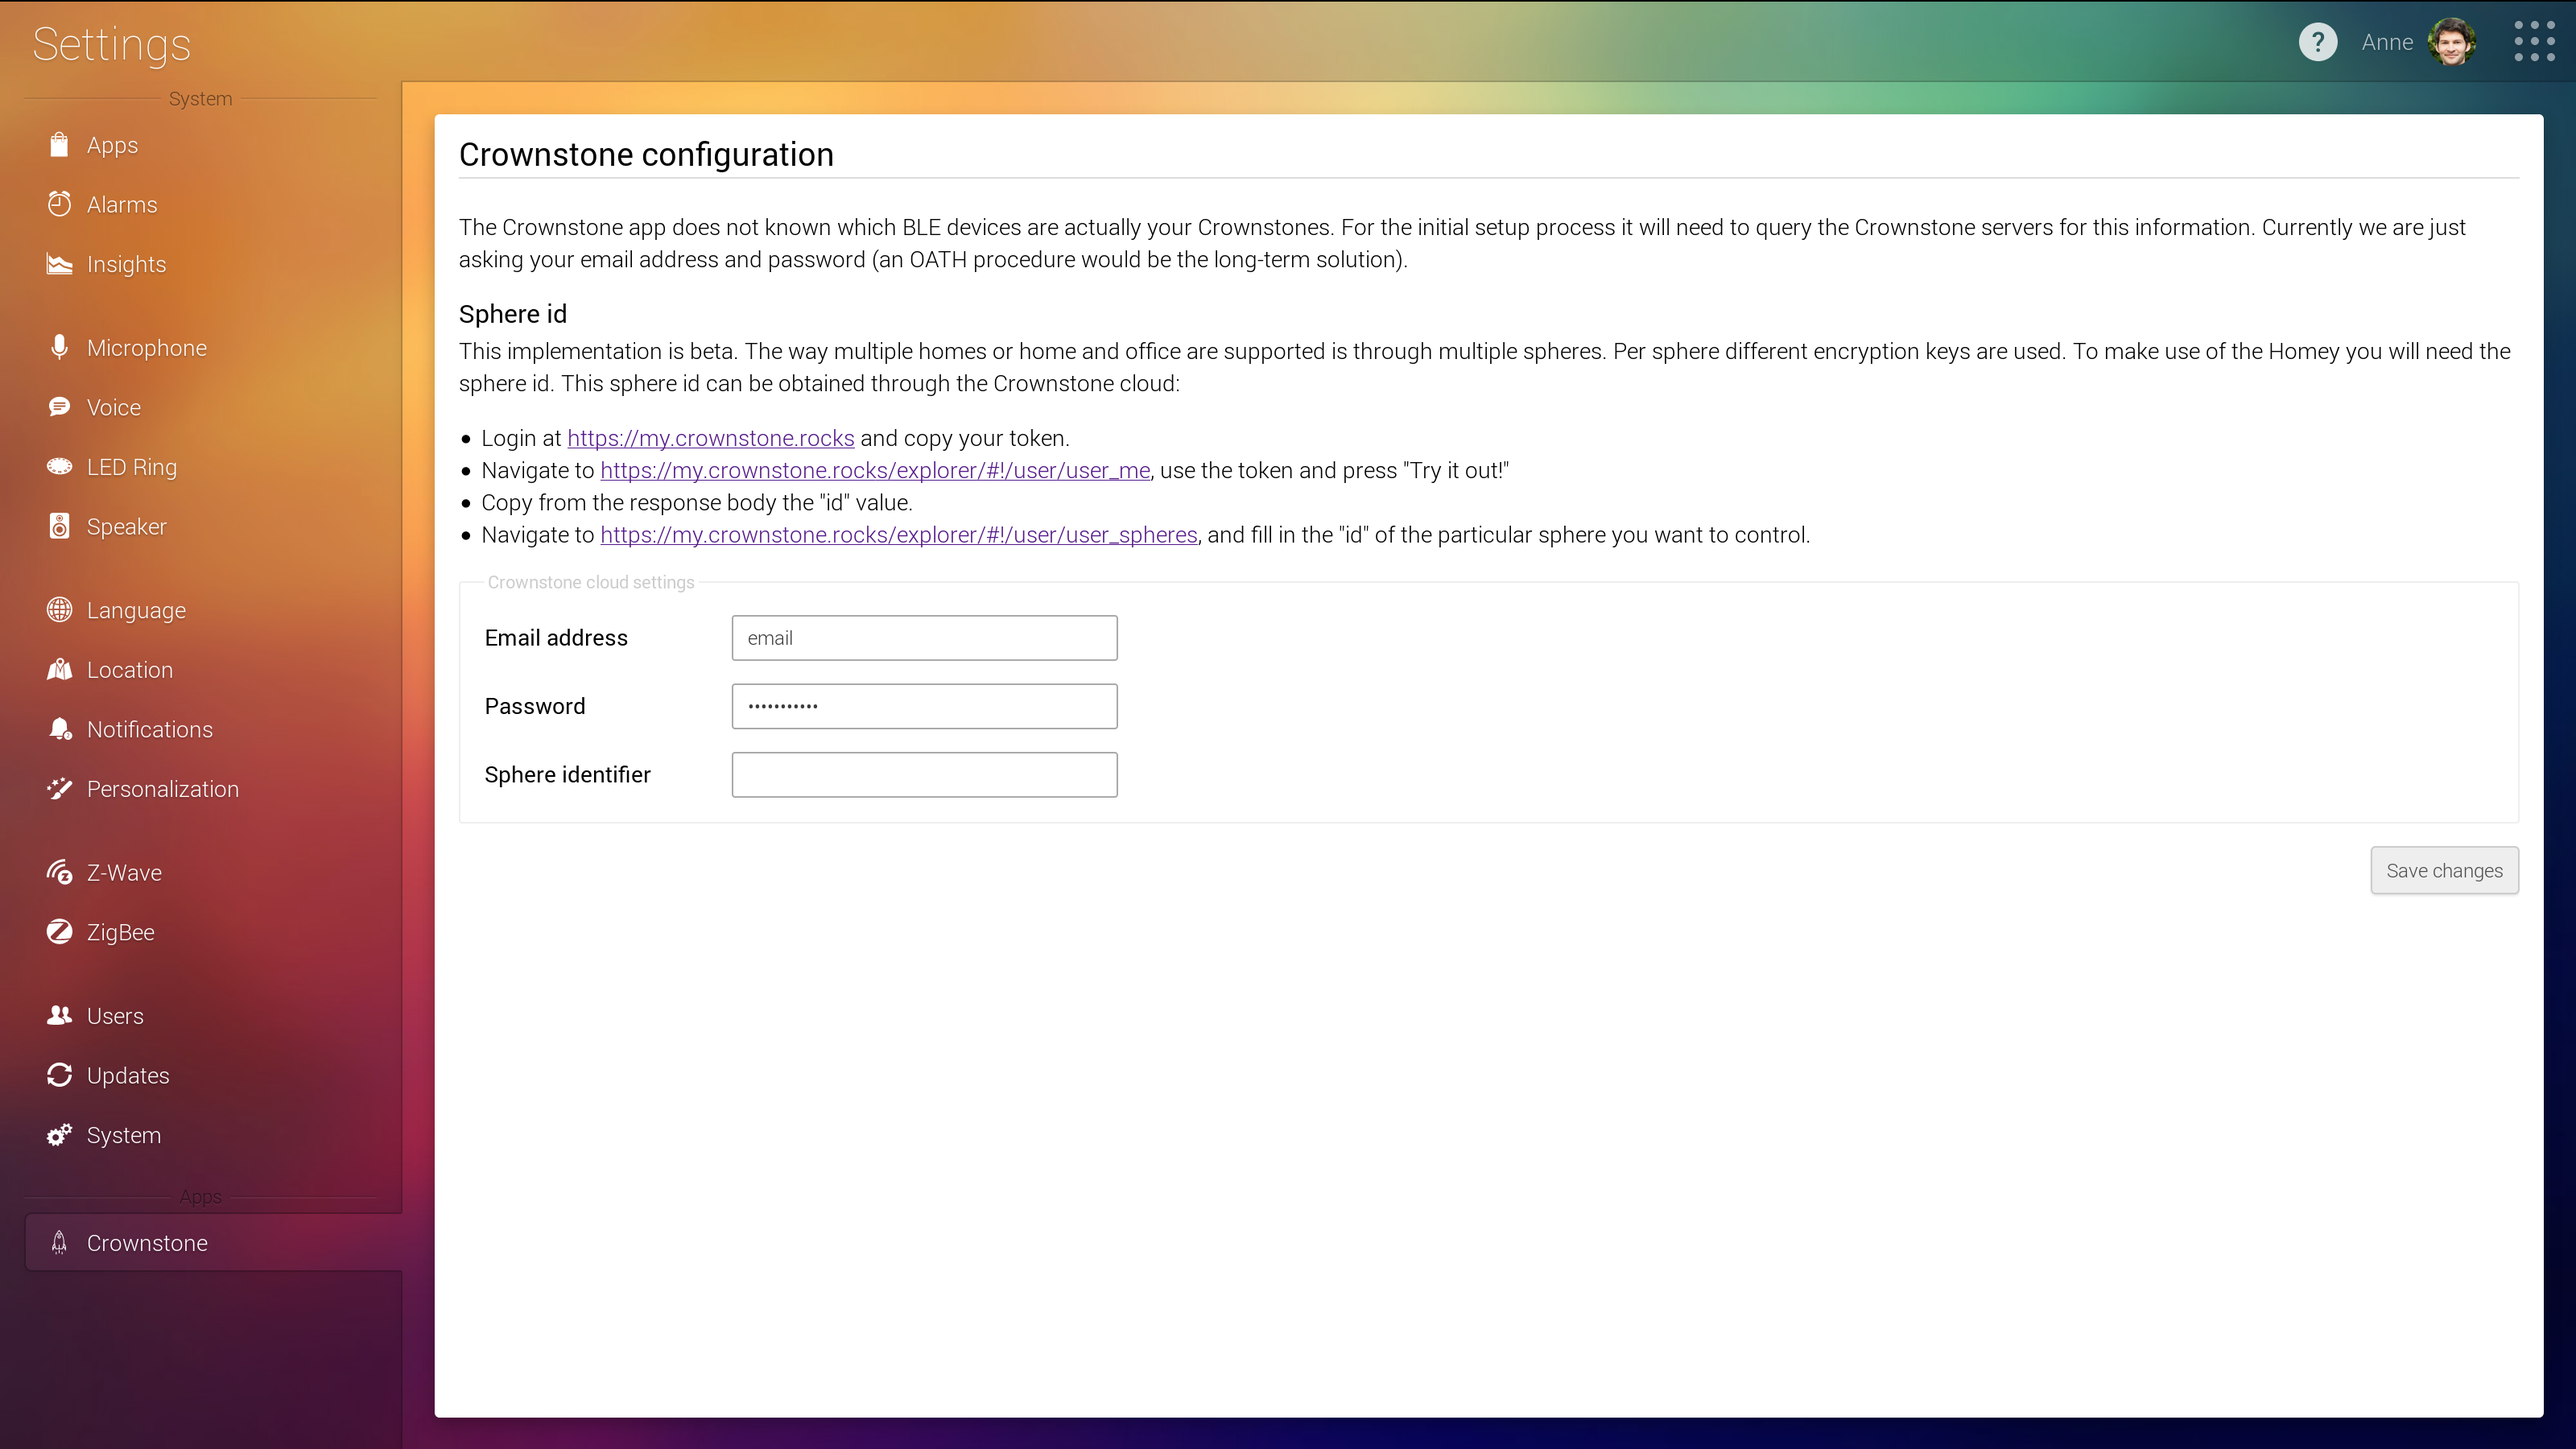
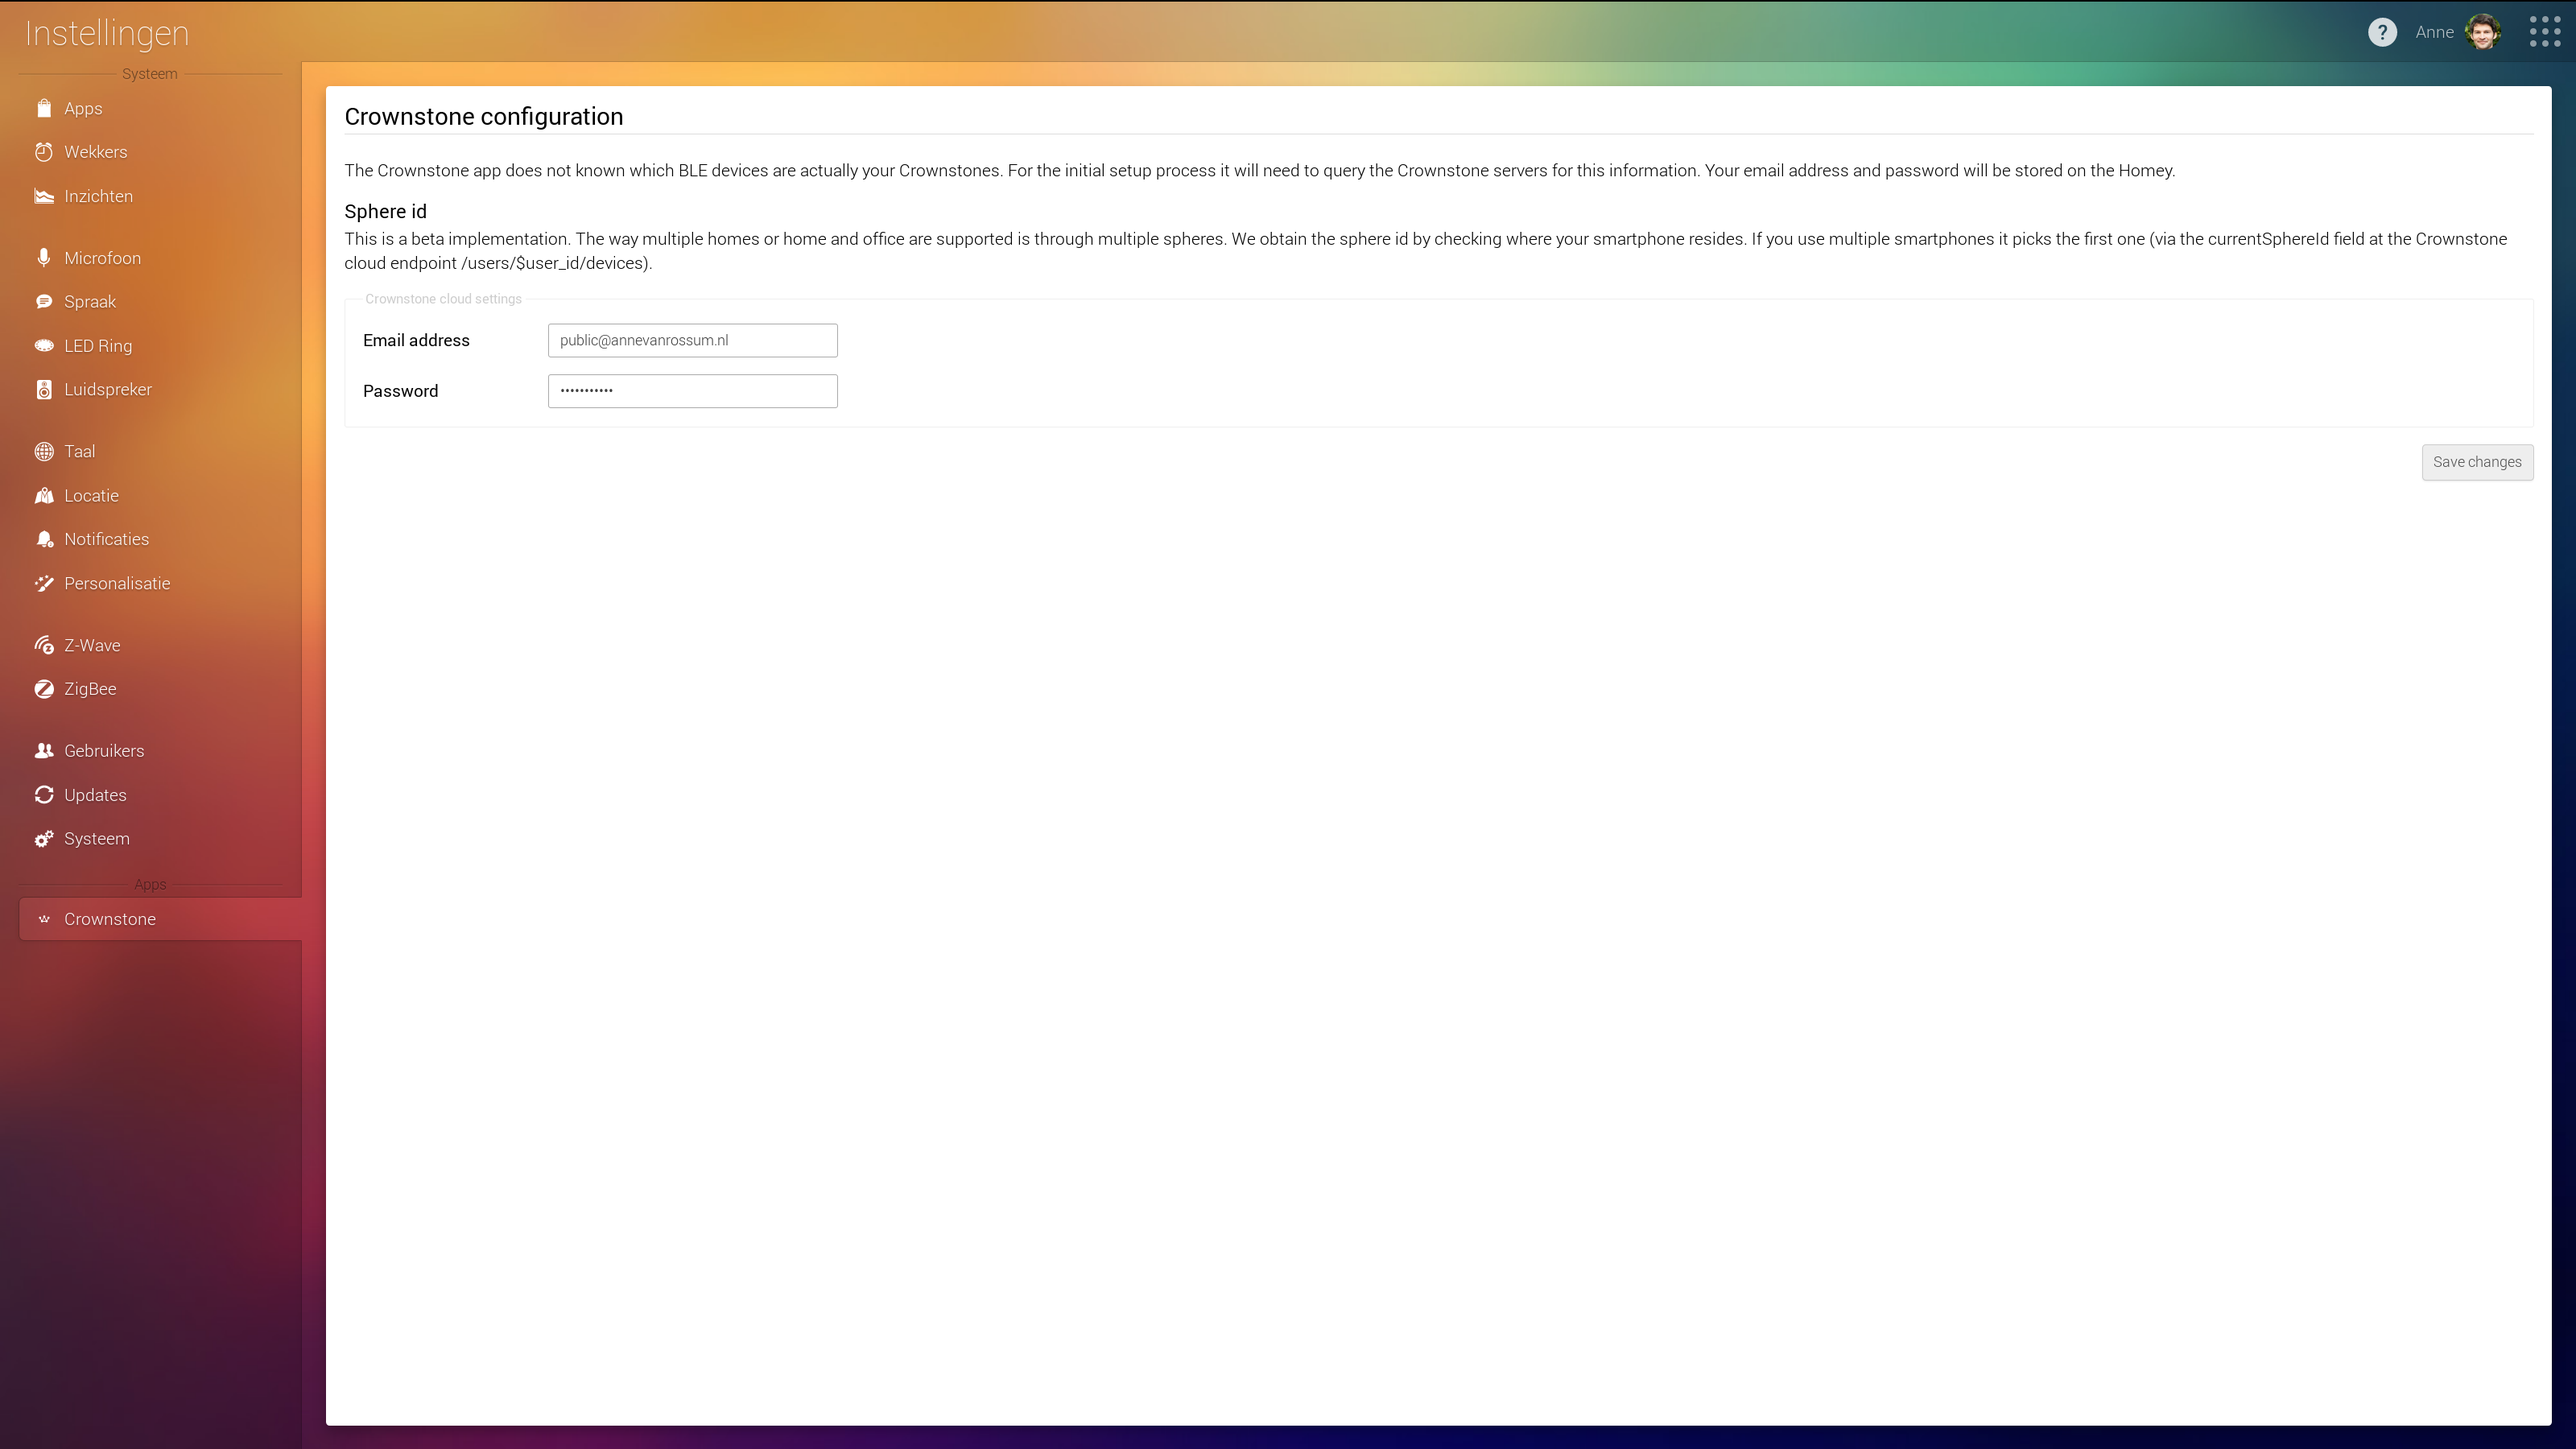
More on Homey

diff --git a/README.md b/README.md
@@ -23,16 +23,10 @@ If you click at the `Crownstone` text at the bottom left, you see a new dialog a
 
 ![Configuration of Crownstone in the Homey GUI](doc/homey-gui-crownstone-app-config.png)
 
-The `sphere id` can be found through using the [Crownstone cloud API](https://cloud.crownstone.rocks). Get first
-your access token by logging in, find your `user id` by the `/users/me` endpoint and then do the proper REST call to
-get all your spheres:
+## sphere id
 
-    access_token=XXXXXXXXXXXXXXX
-	user_id=XXXXXXXXXXXX
-    curl -s -X GET "https://cloud.crownstone.rocks/api/users/$user_id/spheres?access_token=$access_token"
+The `sphere id` that will be used behind the scenes is the one where the user is located. This is obtained automatically via the [Crownstone cloud API](https://cloud.crownstone.rocks). 
 
-Check <https://github.com/mrquincle/crownstone-bash> for utility functions that do this automatically. You can do
-also perform this all in the web interface. This is also described in the Homey GUI.
 
 After running you will see something like:
 
@@ -62,10 +56,40 @@ After running you will see something like:
 
 We are hiring as well. :-)
 
-# Current implementation
+# The process
 
-The current implementation scans for Crownstones (makes sure that they are visible from the Homey!), picks the first
-one and sends it a series of commands.
+## Sphere
+
+The sphere is automatically obtained from the first smartphone device that is found in the Crownstone cloud. That device is situated in a particular home (sphere). The keys that belong to that sphere will be used to encrypt/decrypt messages towards the Crownstones from the Homey hub.
+
+## Add Crownstones
+
+It is necessary to add a Crownstone manually. Although the Crownstone code supports automatic discovery, in the setup at Homey the user manually selects a Crownstone from the list
+
+![Homey: Add Crownstone type](doc/homey-gui-devices-zones.png)
+![Homey: Add Crownstone](doc/homey-gui-add-device.png)
+![Homey: Select Crownstone from list](doc/homey-gui-select-device.png)
+![Homey: Crownstone added](doc/homey-gui-device-added.png)
+
+## Control Crownstone
+
+It is fairly simple to control the Crownstone.
+
+![Crownstone add Device](doc/homey-gui-control-device.png)
+
+Of course you can also say something like: "Okay Homey, turn on coffee machine" or in Dutch "Oke Homey, zet het koffieapparaat aan".
+
+## On problems
+
+There is almost nothing for you to check if the Crownstone app works. There is no logging etc. If you want to see logging, you have to install this app from github and run it from the command line with `homey app run`.
+
+Bluetooth problems are at times resolved by restarting the Homey (from the System menu):
+
+![Reset Homey](doc/homey-gui-restarting.png)
+
+## Console
+
+Switching a Crownstone on the console with `athom app run` will show something like this:
 
 ```
 ✓ Running `rocks.crownstone`, press CTRL+C to quit
@@ -80,74 +104,6 @@ one and sends it a series of commands.
 2018-07-24 15:42:47 [log] [MyApp] Get stones in sphere
 2018-07-24 15:42:48 [log] [MyApp] Start Scanning
 2018-07-24 15:42:53 [log] [MyApp] Scan completed, parsing results...
-2018-07-24 15:42:53 [log] [MyApp] BleAdvertisement {
-  domain: null,
-  _events: {},
-  _eventsCount: 0,
-  _maxListeners: undefined,
-  id: 'e4b22c85a934',
-  uuid: 'e4b22c85a934',
-  address: 'e4:b2:2c:85:a9:34',
-  addressType: 'random',
-  connectable: true,
-  localName: 'Crown',
-  manufacturerData: <Buffer 4c 00 02 15 e2 e1 0a 19 68 80 45 01 ab 90 cc 6f 8f a8 f5 a8 35 59 37 48 c4>,
-  serviceData: [],
-  serviceUuids: [],
-  rssi: -78,
-  connect: [Function: bound connect],
-  printInfo: [Function: bound printInfo] } -78
-2018-07-24 15:42:53 [log] [MyApp] BleAdvertisement {
-  domain: null,
-  _events: {},
-  _eventsCount: 0,
-  _maxListeners: undefined,
-  id: 'f34fc7ab2737',
-  uuid: 'f34fc7ab2737',
-  address: 'f3:4f:c7:ab:27:37',
-  addressType: 'random',
-  connectable: true,
-  localName: 'Crown',
-  manufacturerData: <Buffer 4c 00 02 15 e2 e1 0a 19 68 80 45 01 ab 90 cc 6f 8f a8 f5 a8 8f 7c 8d 65 c4>,
-  serviceData: [],
-  serviceUuids: [],
-  rssi: -82,
-  connect: [Function: bound connect],
-  printInfo: [Function: bound printInfo] } -82
-2018-07-24 15:42:53 [log] [MyApp] BleAdvertisement {
-  domain: null,
-  _events: {},
-  _eventsCount: 0,
-  _maxListeners: undefined,
-  id: 'da5237cb065b',
-  uuid: 'da5237cb065b',
-  address: 'da:52:37:cb:06:5b',
-  addressType: 'random',
-  connectable: true,
-  localName: 'Crown',
-  manufacturerData: <Buffer 4c 00 02 15 e2 e1 0a 19 68 80 45 01 ab 90 cc 6f 8f a8 f5 a8 dc 86 cc ab c4>,
-  serviceData: [],
-  serviceUuids: [],
-  rssi: -75,
-  connect: [Function: bound connect],
-  printInfo: [Function: bound printInfo] } -75
-2018-07-24 15:42:53 [log] [MyApp] BleAdvertisement {
-  domain: null,
-  _events: {},
-  _eventsCount: 0,
-  _maxListeners: undefined,
-  id: 'e95fdbb9aff1',
-  uuid: 'e95fdbb9aff1',
-  address: 'e9:5f:db:b9:af:f1',
-  addressType: 'random',
-  connectable: true,
-  localName: 'bart',
-  manufacturerData: <Buffer 4c 00 02 15 e2 e1 0a 19 68 80 45 01 ab 90 cc 6f 8f a8 f5 a8 77 57 4f 68 c4>,
-  serviceData: [],
-  serviceUuids: [],
-  rssi: -89,
-  connect: [Function: bound connect],
-  printInfo: [Function: bound printInfo] } -89
 2018-07-24 15:42:53 [log] [MyApp] Discovered Crownstones with the following Ids: [ '4', '10', '11', '13' ]
 2018-07-24 15:42:53 [log] [MyApp] Doing the thing with the first Crownstone we discovered:  4  with the address: e9:5f:db:b9:af:f1
 2018-07-24 15:42:53 [log] [MyApp] Doing the thing! Connecting...
@@ -172,3 +128,5 @@ Session Nonce Processed.
 2018-07-24 15:43:03 [log] [MyApp] Disconnecting...
 2018-07-24 15:43:14 [log] [MyApp] Done!
 ```
+
+
